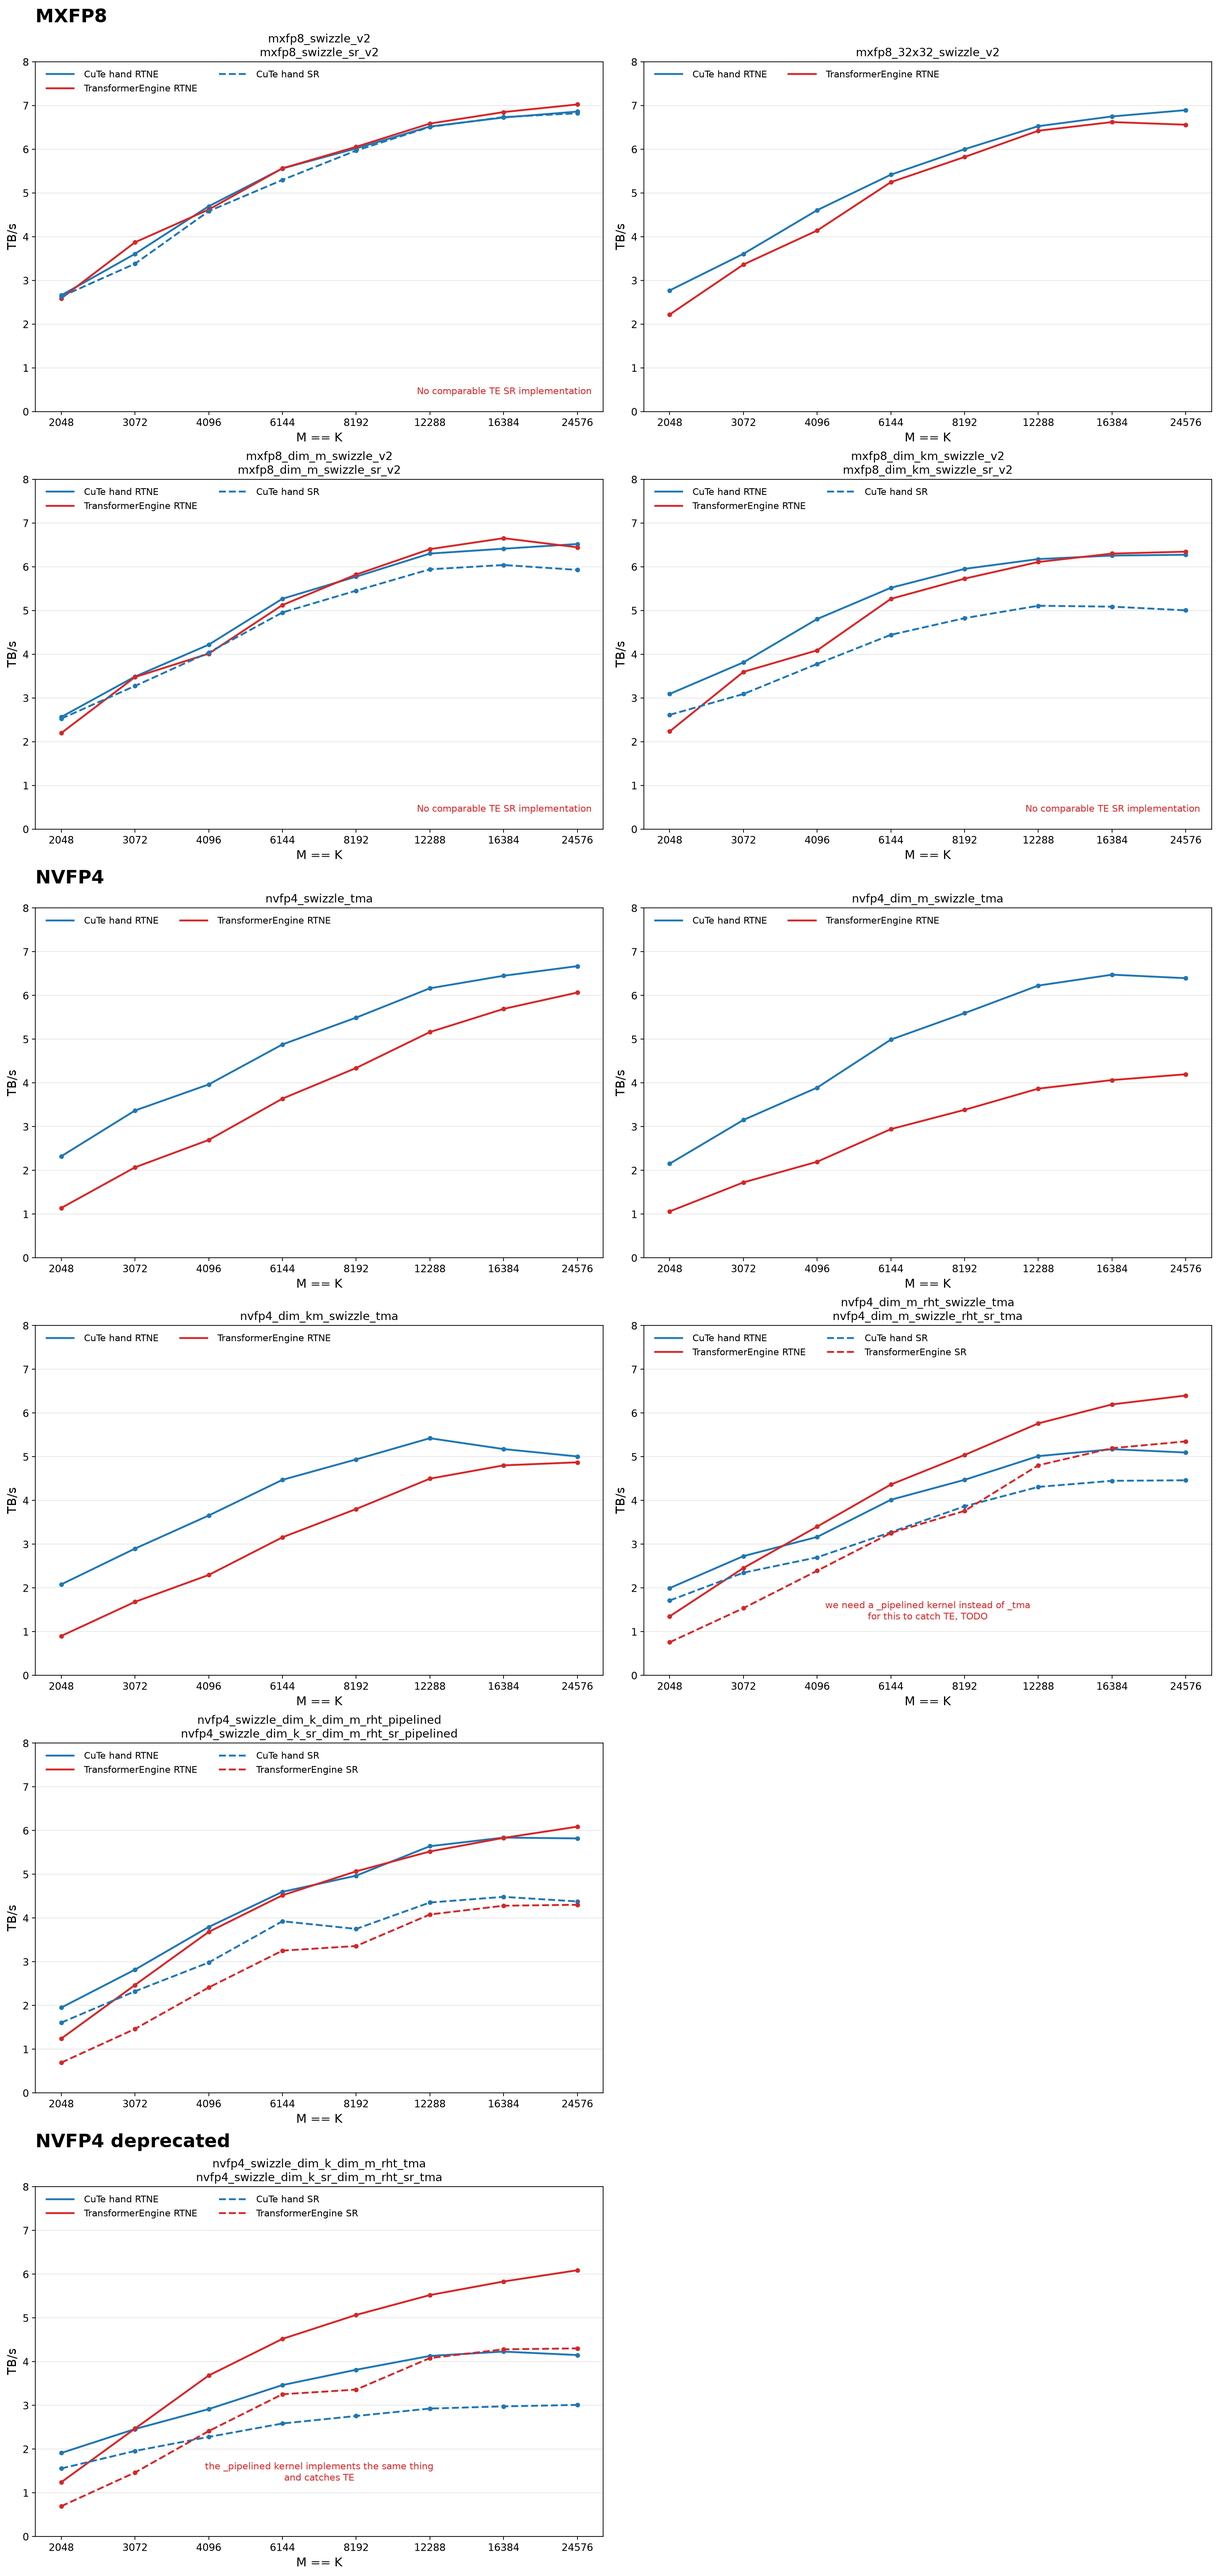
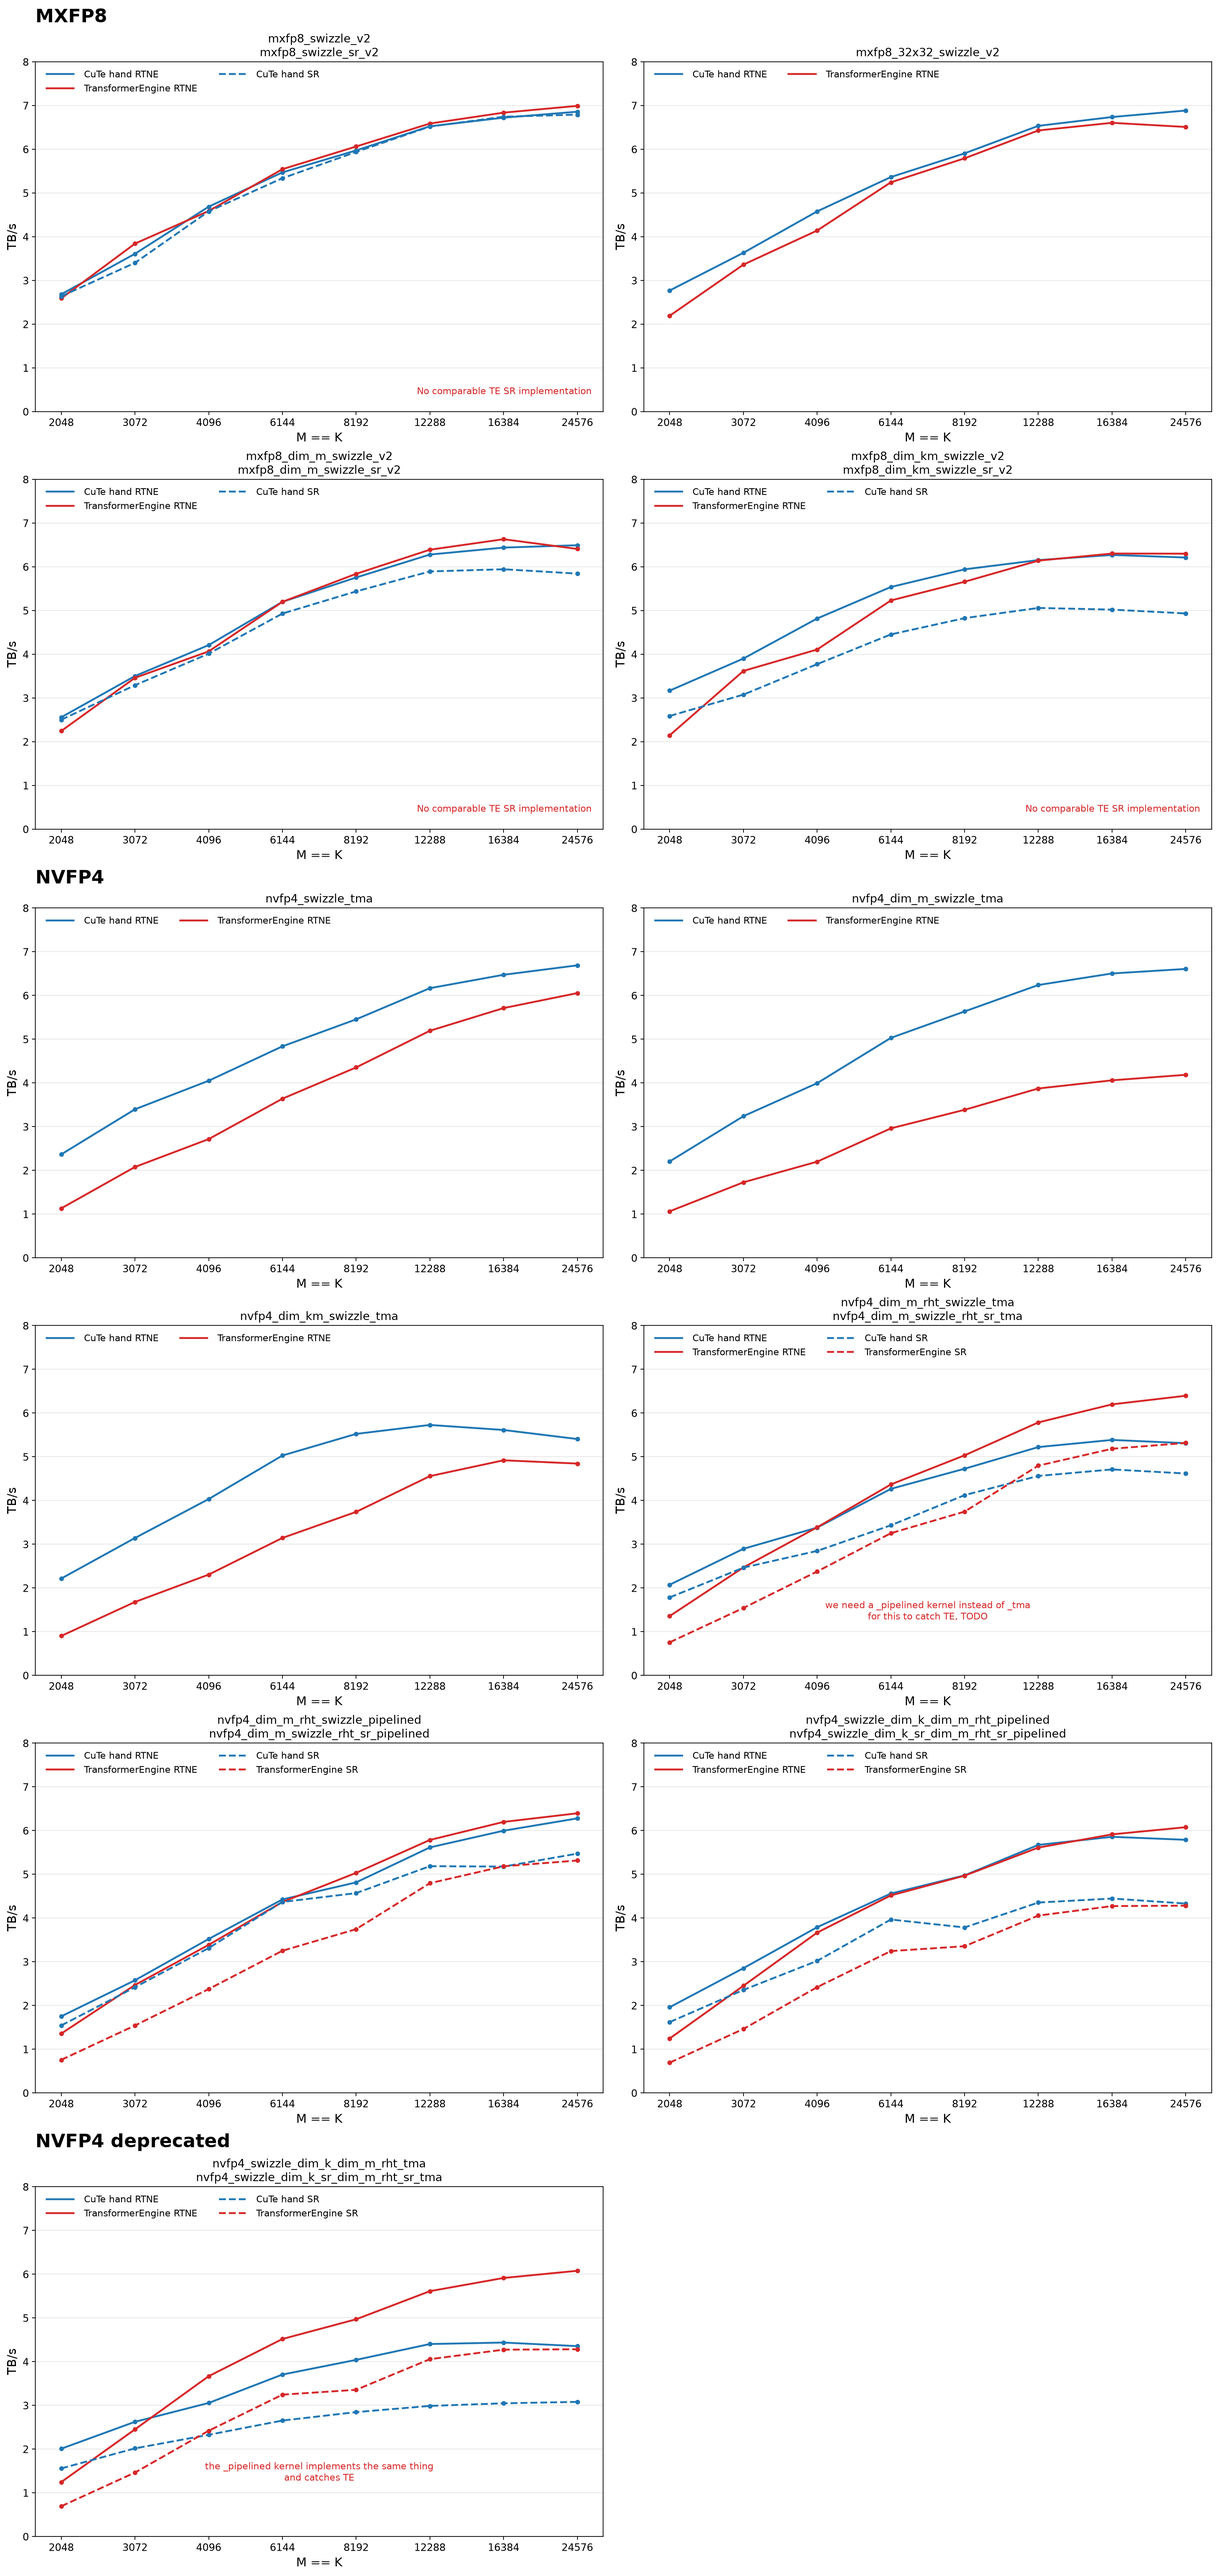
more charts
Summary:

Test Plan:

diff --git a/quant_cast_bench/quant_cast_cute_hand/benchmarks/README.md b/quant_cast_bench/quant_cast_cute_hand/benchmarks/README.md
@@ -9,7 +9,8 @@ and non-RHT kernels remain in separate panels. A missing red SR line means that
 TransformerEngine has no comparable stochastic MXFP8 implementation. The MXFP8 comparisons
 include both the conventional 1x32 scale blocks and the 32x32 scale blocks used by
 `mxfp8_32x32_swizzle_v2`. Panels are grouped into MXFP8, NVFP4, and deprecated NVFP4
-sections.
+sections. The NVFP4 section includes a shared RTNE/SR panel for the dim-M RHT pipelined
+recipes.
 
 ![CuTe-hand versus TransformerEngine throughput](transformer_engine_comparison.png)
 
